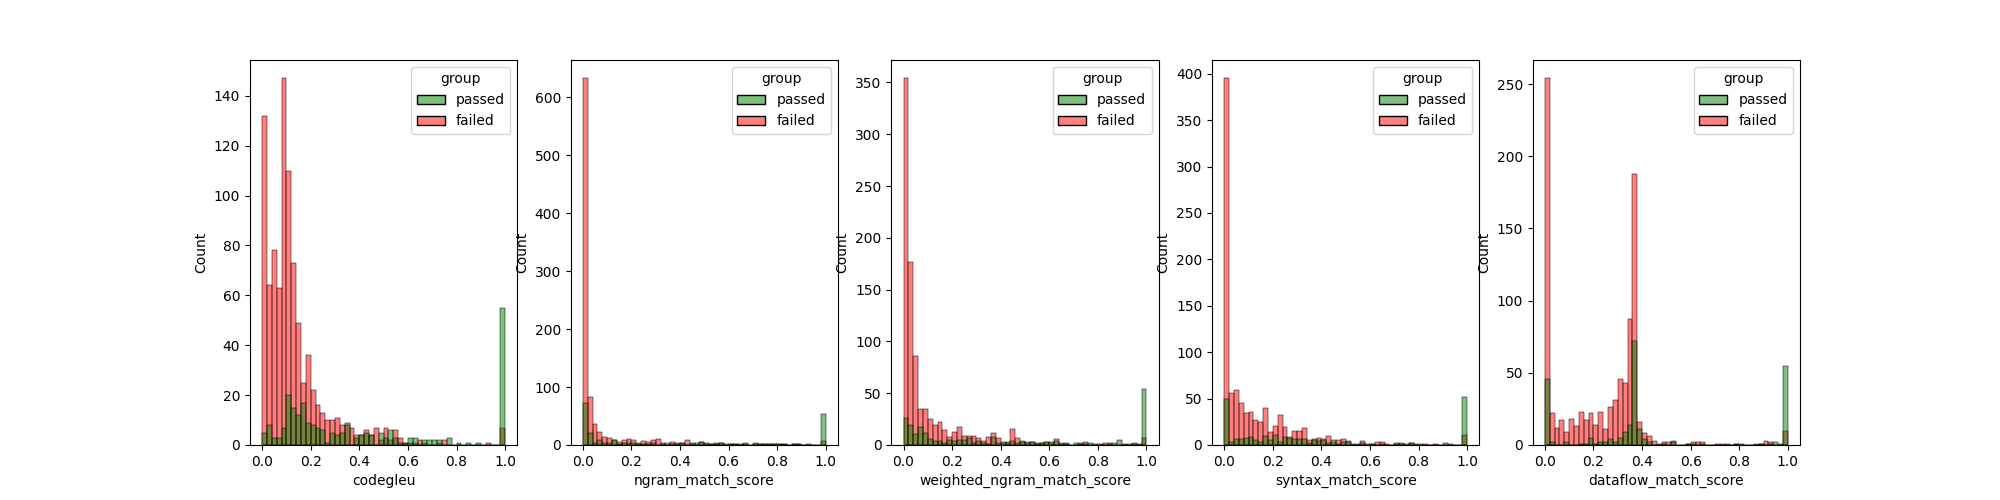
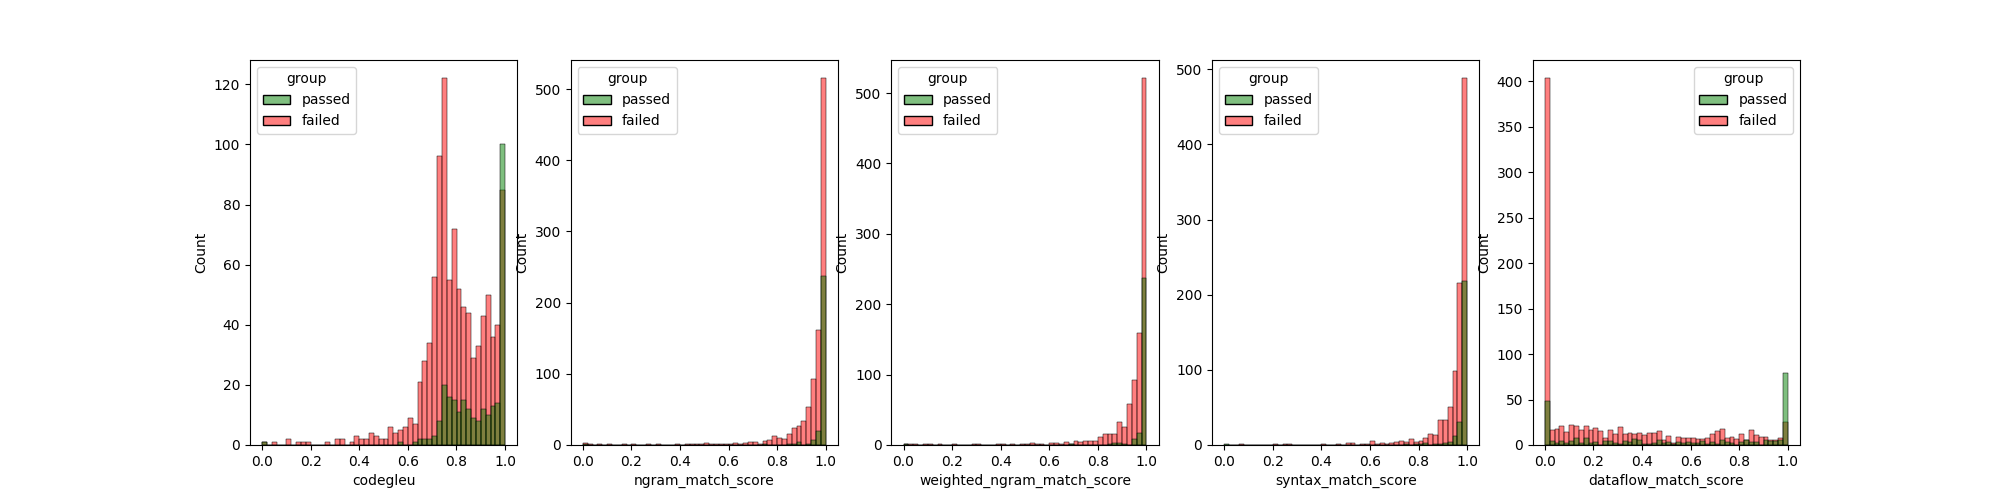
new graphs

Changed region(s): [[0.093, 0.12, 0.775, 0.9], [0.775, 0.36, 0.899, 0.9]]

diff --git a/evaluate.py b/evaluate.py
@@ -508,14 +508,15 @@ def main():
                 pr = pearsonr([i[group][score] for i in toscore], [i["patchpercentage"] for i in toscore])
                 print(f" {'%.10f' % pr[0]}, {'%.10f' % pr[1]} ")
                 wandb.log({f"mvp_{group}_{score}_corr": pr[0], f"mvp_{group}_{score}_p": pr[1]})
-    data = [s["diffsim"] | {"group": "passed" if r else "failed"} for s, r in zip(toscore, resornot)]
     if not os.path.exists(conf["figs_loc"]):
         os.mkdir(conf["figs_loc"])
-    fig, axs = plt.subplots(ncols=5, figsize=(20, 5))
-    for i, k in enumerate(toscore[0]["diffsim"]):
-        sns.histplot(x=k, hue="group", data=pd.DataFrame(data), palette={"passed": "green", "failed": "red"}, binwidth=0.02, ax=axs[i])
-    fig.savefig(f"{conf['figs_loc']}/diffsim_scores.png")
-    plt.close()
+    for n in ["codebleu", "codebleu_patch", "codegleu", "diffsim"]:
+        data = [s[n] | {"group": "passed" if r else "failed"} for s, r in zip(toscore, resornot)]
+        fig, axs = plt.subplots(ncols=5, figsize=(20, 5))
+        for i, k in enumerate(toscore[0][n]):
+            sns.histplot(x=k, hue="group", data=pd.DataFrame(data), palette={"passed": "green", "failed": "red"}, binwidth=0.02, ax=axs[i])
+        fig.savefig(f"{conf['figs_loc']}/{n}_scores.png")
+        plt.close()
     sns.regplot(x=[i["diffsim"]["diffsim"] for i in toscore], y=resornot)
     plt.savefig(f"{conf['figs_loc']}/versus.png")
     plt.close()
